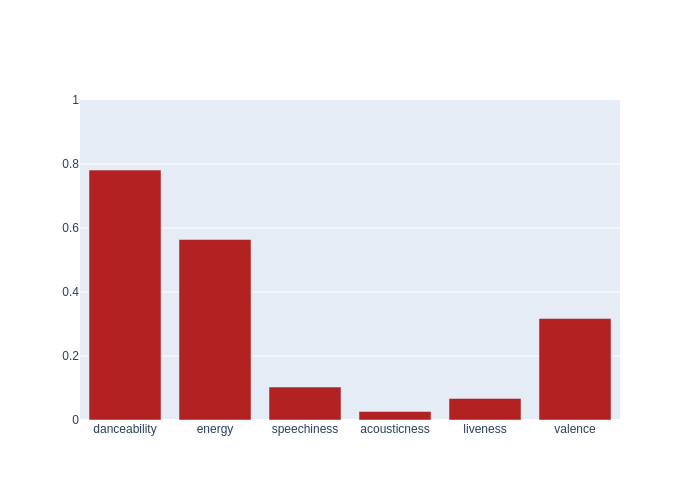
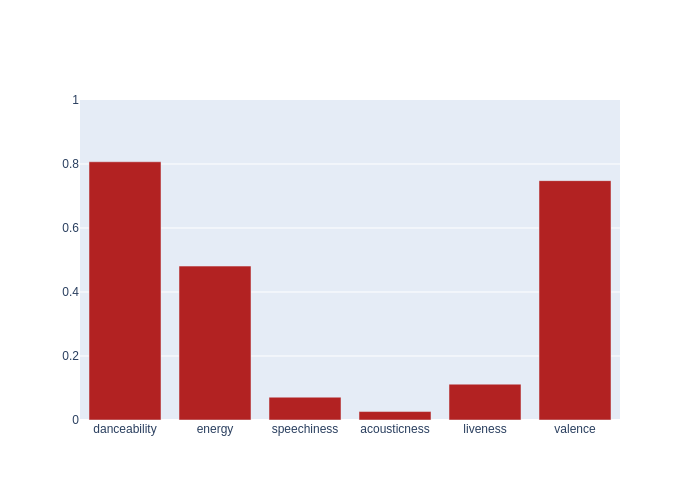
Automated README update

diff --git a/README.md b/README.md
@@ -4,9 +4,9 @@ Automated music metrics for fun, updated hourly.
 
 ## Spotify
 
-- currently listening to **The Kudu - Get High**
+- currently listening to **Victoria Monét - Coastin’**
 
-- **918** liked songs
+- **919** liked songs
 - **154** playlists
 
 - top artists: 
